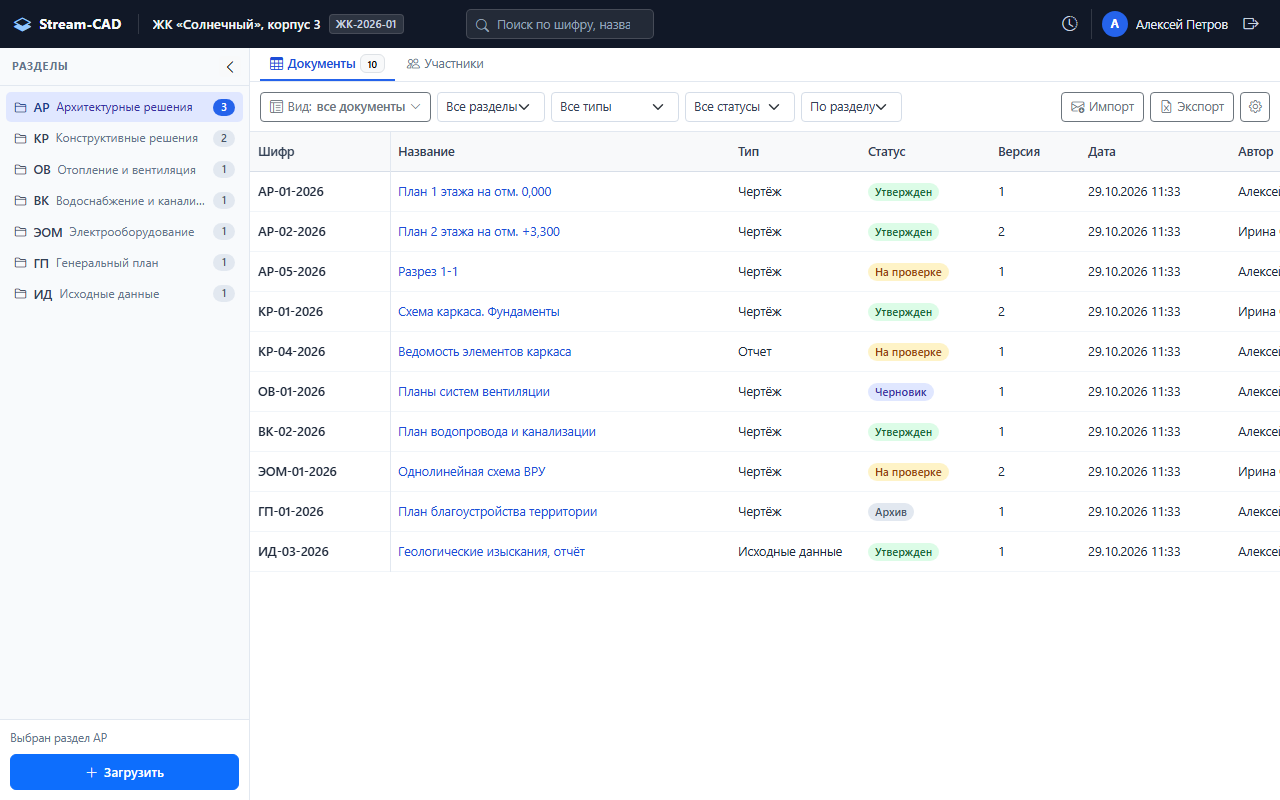
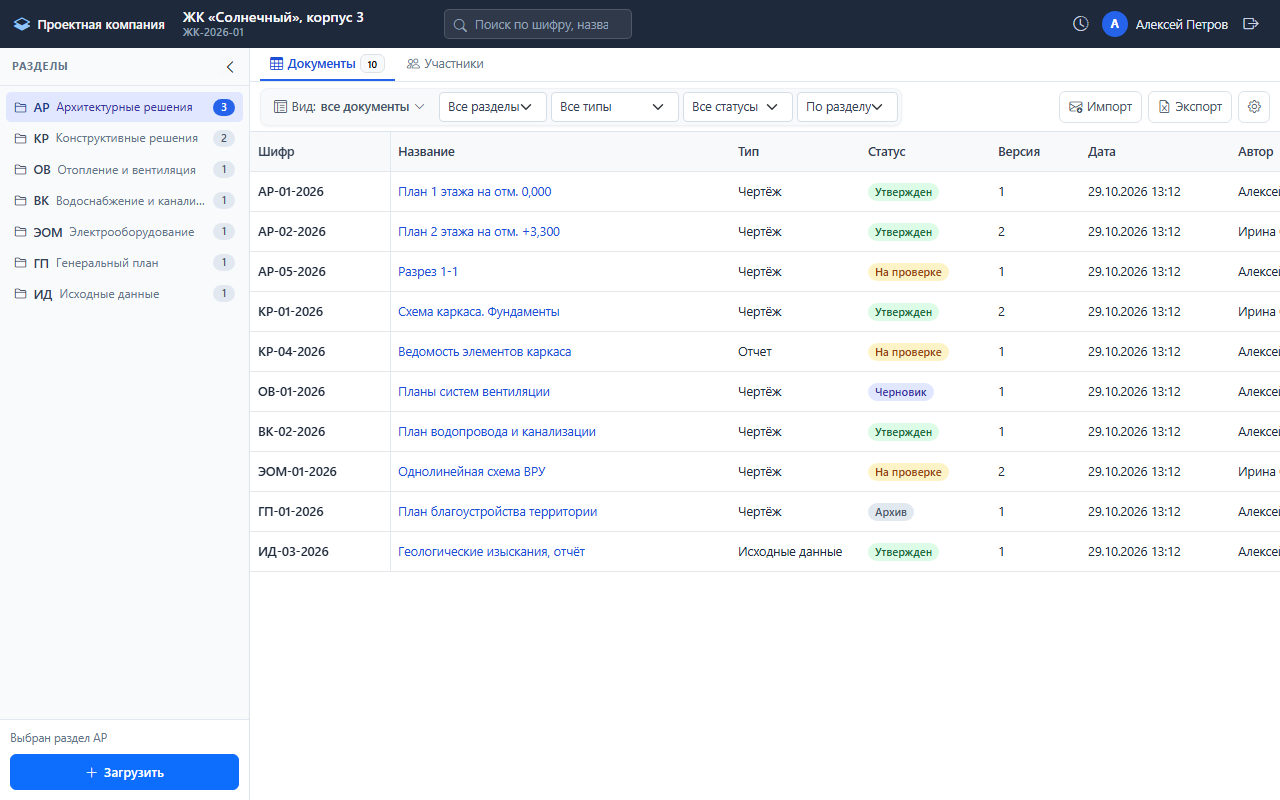
feat(ui): T7-polish (colors, company branding, grouped toolbar) + T8-prep (Issue pin coords)

diff --git a/static/css/app.css b/static/css/app.css
@@ -6,7 +6,8 @@
     --app-border-strong: #cbd5e1;
     --app-ink: #0f172a;
     --app-muted: #64748b;
-    --app-topbar-bg: #111827;
+    --app-topbar-bg: #1e293b;
+    --app-topbar-fg: #f3f4f6;
     --app-sidebar-bg: #f8fafc;
     --app-accent: #2563eb;
     --app-accent-soft: #e0e7ff;
@@ -22,9 +23,11 @@ body.app-body {
     overflow: hidden;
     background: #fff;
     color: var(--app-ink);
-    font-family: system-ui, -apple-system, "Segoe UI", Roboto, "Helvetica Neue", Arial, sans-serif;
+    font-family: system-ui, -apple-system, "Segoe UI", Roboto, "Inter", "Helvetica Neue", Arial, sans-serif;
     font-size: 13px;
     line-height: 1.45;
+    -webkit-font-smoothing: antialiased;
+    -moz-osx-font-smoothing: grayscale;
 }
 
 .app-shell {
@@ -41,21 +44,29 @@ body.app-body {
     height: var(--app-topbar-h);
     display: flex;
     align-items: center;
-    gap: 16px;
+    gap: 18px;
     padding: 0 14px;
     background: var(--app-topbar-bg);
-    color: #e5e7eb;
+    color: var(--app-topbar-fg);
     z-index: 30;
+}
+
+.topbar-identity {
+    display: flex;
+    align-items: center;
+    gap: 18px;
+    min-width: 0;
 }
 
 .topbar-brand {
     display: inline-flex;
     align-items: center;
-    gap: 8px;
-    color: #f8fafc;
+    gap: 7px;
+    min-width: 0;
+    color: var(--app-topbar-fg);
     text-decoration: none;
-    font-weight: 700;
-    font-size: 14px;
+    font-weight: 600;
+    font-size: 12.5px;
     letter-spacing: .01em;
     white-space: nowrap;
 }
@@ -65,17 +76,24 @@ body.app-body {
 }
 
 .topbar-brand .bi {
-    font-size: 17px;
+    flex: 0 0 auto;
+    font-size: 16px;
     color: #93c5fd;
+}
+
+.topbar-company {
+    max-width: 220px;
+    overflow: hidden;
+    text-overflow: ellipsis;
+    white-space: nowrap;
 }
 
 .topbar-project {
     display: flex;
-    align-items: center;
-    gap: 8px;
+    flex-direction: column;
+    align-items: flex-start;
+    gap: 0;
     min-width: 0;
-    padding-left: 14px;
-    border-left: 1px solid rgba(255, 255, 255, .14);
 }
 
 .topbar-project-name {
@@ -84,17 +102,16 @@ body.app-body {
     text-overflow: ellipsis;
     white-space: nowrap;
     font-weight: 600;
-    color: #f1f5f9;
+    font-size: 14px;
+    line-height: 1.25;
+    color: #f8fafc;
 }
 
 .topbar-code {
-    font-size: 11px;
-    font-weight: 600;
-    color: #cbd5e1;
-    background: rgba(255, 255, 255, .12);
-    border: 1px solid rgba(255, 255, 255, .12);
-    border-radius: 4px;
-    padding: 1px 6px;
+    font-size: 10.5px;
+    font-weight: 500;
+    letter-spacing: .03em;
+    color: #94a3b8;
     white-space: nowrap;
 }
 
@@ -166,8 +183,6 @@ body.app-body {
     display: flex;
     align-items: center;
     gap: 8px;
-    padding-left: 10px;
-    border-left: 1px solid rgba(255, 255, 255, .14);
     white-space: nowrap;
 }
 
@@ -216,6 +231,7 @@ body.app-body {
     overflow: hidden;
     background: var(--app-sidebar-bg);
     border-right: 1px solid var(--app-border);
+    box-shadow: 0 1px 3px rgba(0, 0, 0, .05);
 }
 
 .app-shell.sidebar-collapsed .app-sidebar {
@@ -486,8 +502,34 @@ body.app-body {
     margin: 0;
     display: flex;
     align-items: center;
-    gap: 6px;
+    gap: 4px;
     flex-wrap: wrap;
+    padding: 3px;
+    border: 1px solid #eef2f6;
+    border-radius: 8px;
+    background: #f8f9fa;
+    box-shadow: 0 1px 3px rgba(0, 0, 0, .05);
+}
+
+.toolbar-filters .btn,
+.toolbar-filters .form-select {
+    border-color: transparent;
+    background-color: transparent;
+    box-shadow: none;
+    color: #475569;
+}
+
+.toolbar-filters .btn:hover,
+.toolbar-filters .form-select:hover {
+    border-color: #e2e8f0;
+    background-color: #fff;
+}
+
+.toolbar-filters .btn:focus,
+.toolbar-filters .form-select:focus {
+    border-color: #bfdbfe;
+    background-color: #fff;
+    box-shadow: 0 0 0 2px rgba(37, 99, 235, .12);
 }
 
 .toolbar-actions {
@@ -500,6 +542,25 @@ body.app-body {
 
 .toolbar-actions form {
     margin: 0;
+}
+
+.toolbar .toolbar-actions .btn {
+    height: 32px;
+    background: transparent;
+    border: 1px solid #dbe2ea;
+    border-radius: 6px;
+    color: #475569;
+}
+
+.toolbar .toolbar-actions .btn:hover {
+    background: #f8fafc;
+    border-color: #cbd5e1;
+    color: #1e293b;
+}
+
+.toolbar .toolbar-actions .icon-btn {
+    width: 32px;
+    height: 32px;
 }
 
 .toolbar-count {
@@ -563,20 +624,38 @@ body.app-body {
     max-width: 380px;
     min-width: 150px;
     margin: 0;
+    padding: 2px;
+    border: 1px solid #eef2f6;
+    border-radius: 8px;
+    background: #f8f9fa;
+    box-shadow: 0 1px 3px rgba(0, 0, 0, .05);
 }
 
 .quick-filter .bi {
     position: absolute;
-    top: 7px;
-    left: 9px;
+    top: 9px;
+    left: 10px;
     color: #94a3b8;
     font-size: 12.5px;
     pointer-events: none;
 }
 
-.quick-filter input {
+.toolbar .quick-filter input {
     width: 100%;
     padding-left: 28px;
+    border-color: transparent;
+    background-color: transparent;
+    box-shadow: none;
+}
+
+.toolbar .quick-filter input:hover {
+    background-color: #fff;
+}
+
+.toolbar .quick-filter input:focus {
+    border-color: #bfdbfe;
+    background-color: #fff;
+    box-shadow: 0 0 0 2px rgba(37, 99, 235, .12);
 }
 
 .dropdown-menu {
@@ -625,6 +704,8 @@ body.app-body {
     min-height: 0;
     overflow: auto;
     position: relative;
+    background: #fff;
+    box-shadow: 0 1px 3px rgba(0, 0, 0, .05);
 }
 
 .doc-table {
@@ -642,7 +723,7 @@ body.app-body {
     z-index: 3;
     height: 40px;
     padding: 0 8px;
-    border-bottom: 1px solid #d7dee8;
+    border-bottom: 1px solid #e5e7eb;
     background: #f8f9fa;
     color: #334155;
     font-weight: 600;
@@ -654,7 +735,7 @@ body.app-body {
 .doc-table tbody td {
     height: 40px;
     padding: 0 8px;
-    border-bottom: 1px solid #f1f5f9;
+    border-bottom: 1px solid #e5e7eb;
     background: #fff;
     color: #1e293b;
     white-space: nowrap;
@@ -787,7 +868,7 @@ body.app-body {
     z-index: 3;
     height: 40px;
     padding: 0 10px;
-    border-bottom: 1px solid #d7dee8;
+    border-bottom: 1px solid #e5e7eb;
     background: #f8f9fa;
     color: #334155;
     font-weight: 600;
@@ -797,7 +878,7 @@ body.app-body {
 .participant-table tbody td {
     height: 44px;
     padding: 4px 10px;
-    border-bottom: 1px solid #f1f5f9;
+    border-bottom: 1px solid #e5e7eb;
     background: #fff;
     vertical-align: middle;
 }

diff --git a/storage/adapters/templates/storage/project_detail.html b/storage/adapters/templates/storage/project_detail.html
@@ -12,14 +12,16 @@
 <body class="app-body">
 <div class="app-shell" id="appShell">
     <header class="app-topbar" data-role="topbar">
-        <a class="topbar-brand" href="{% url 'storage:project_list' %}">
-            <i class="bi bi-layers-half" aria-hidden="true"></i>
-            <span>Stream-CAD</span>
-        </a>
+        <div class="topbar-identity">
+            <a class="topbar-brand" href="{% url 'storage:project_list' %}">
+                <i class="bi bi-layers-half" aria-hidden="true"></i>
+                <span class="topbar-company">{{ user.userprofile.company.name|default:"Stream-CAD" }}</span>
+            </a>
 
-        <div class="topbar-project">
-            <span class="topbar-project-name" title="{{ project.name }}">{{ project.name }}</span>
-            <span class="topbar-code">{{ project.code }}</span>
+            <div class="topbar-project">
+                <span class="topbar-project-name" title="{{ project.name }}">{{ project.name }}</span>
+                <span class="topbar-code">{{ project.code }}</span>
+            </div>
         </div>
 
         <form class="topbar-search" method="get" action="{% url 'storage:search' project.pk %}" role="search">
